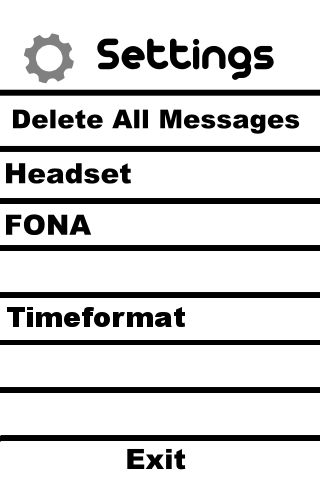
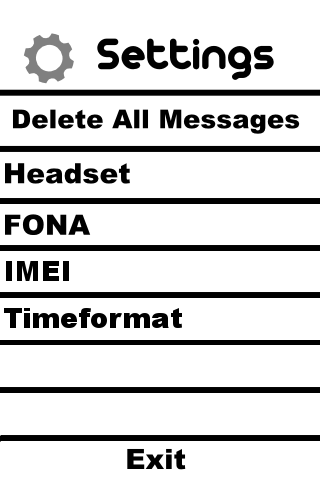
small update

diff --git a/apps/FMRadio/FMRadio.py b/apps/FMRadio/FMRadio.py
@@ -43,6 +43,11 @@ class Run():
         self.freq_rect = self.freq.get_rect()
         self.freq_rect.centerx = 200
         self.freq_rect.y = 350
+        # overlay scanning
+        self.scanning = self.font.render('     scanning...     ' , True, self.RED, self.WHITE)
+        self.scanning_rect = self.scanning.get_rect()
+        self.scanning_rect.centerx = 160
+        self.scanning_rect.y = 255
         # set number of channels (after channel scan)
         self.no_of_ch = self.font.render(str(self.ch_max) , True, self.GREEN, self.WHITE)
         self.no_of_ch_rect = self.no_of_ch.get_rect()
@@ -132,14 +137,14 @@ class Run():
         self.blit['surfaces'][2] = self.off
         self.blit['surfaces'][3] = self.freq_off
         self.fona.transmit('AT+FMCLOSE')
-        time.sleep(0.5)
+        time.sleep(0.25)
         self.radio_on = False
      else:
         self.blit['surfaces'][2] = self.on
         self.blit['surfaces'][3] = self.freq
         self.radio_on = True
         self.fona.transmit('AT+FMOPEN=1')
-        time.sleep(0.5)
+        time.sleep(0.25)
         self.fona.transmit('AT+FMFREQ=' + self.set_freq)
         self.signal = self.fona.transmit('AT+FMSIGNAL=' + self.set_freq)
         self.signal = self.signal[1].split(':')
@@ -163,7 +168,7 @@ class Run():
             self.volume = 0
     #    print(self.volume)
         self.fona.transmit('AT+FMVOLUME=' + str(self.volume))
-        time.sleep(0.5)
+        time.sleep(0.25)
         self.vol = self.font.render(str(self.volume) , True, self.GREEN, self.WHITE)
         self.blit['surfaces'][5] = self.vol
 
@@ -173,7 +178,7 @@ class Run():
             self.volume = 6
         #print(self.volume)
         self.fona.transmit('AT+FMVOLUME=' + str(self.volume))
-        time.sleep(0.5)
+        time.sleep(0.25)
         self.vol = self.font.render(str(self.volume) , True, self.GREEN, self.WHITE)
         self.blit['surfaces'][5] = self.vol
 
@@ -215,7 +220,12 @@ class Run():
         self.signal_str = self.font.render(str(self.signal[2]) + ' / 112' , True, self.GREEN, self.WHITE)
         self.blit['surfaces'][6] = self.signal_str
 
+    def display_channels_scan(self):
+        self.blit['surfaces'][4] = self.scanning
+        self.blit['rects'][4] = self.scanning_rect
+
     def channel_scan(self):
+#        self.display_channels_scan() doesnt work cause screeen doesnt gets updated
         if self.radio_on == False: # checking if radio is on, otherwise it will crash if radio is off
            self.set_radio()
         self.chlist = str(self.fona.transmit('AT+FMSCAN'))
@@ -251,7 +261,7 @@ class Run():
         #print(self.ch_max)
         self.no_of_ch = self.font.render(str(self.ch_max) , True, self.GREEN, self.WHITE)
         self.blit['surfaces'][4] = self.no_of_ch
-
+        self.blit['rects'][4] = self.no_of_ch_rect
         #channel_log = open('/home/pi/tyos/logs/channel.log', 'w')
         #channel_log.write(str(channels))
         #channel_log.close()

diff --git a/apps/settings/settings.py b/apps/settings/settings.py
@@ -31,9 +31,9 @@ class Run():
         self.imei = self.fona.transmit('AT+GSN')
         self.imei = self.imei[1].replace('[','')
         #print(self.imei)
-        self.imei_show = self.font.render( 'IMEI: ' + str(self.imei), True, self.GREEN, self.WHITE)
+        self.imei_show = self.font.render( str(self.imei), True, self.GREEN, self.WHITE)
         self.imei_show_rect = self.imei_show.get_rect()
-        self.imei_show_rect.x = 5
+        self.imei_show_rect.x = 75
         self.imei_show_rect.centery = 270
 
 
